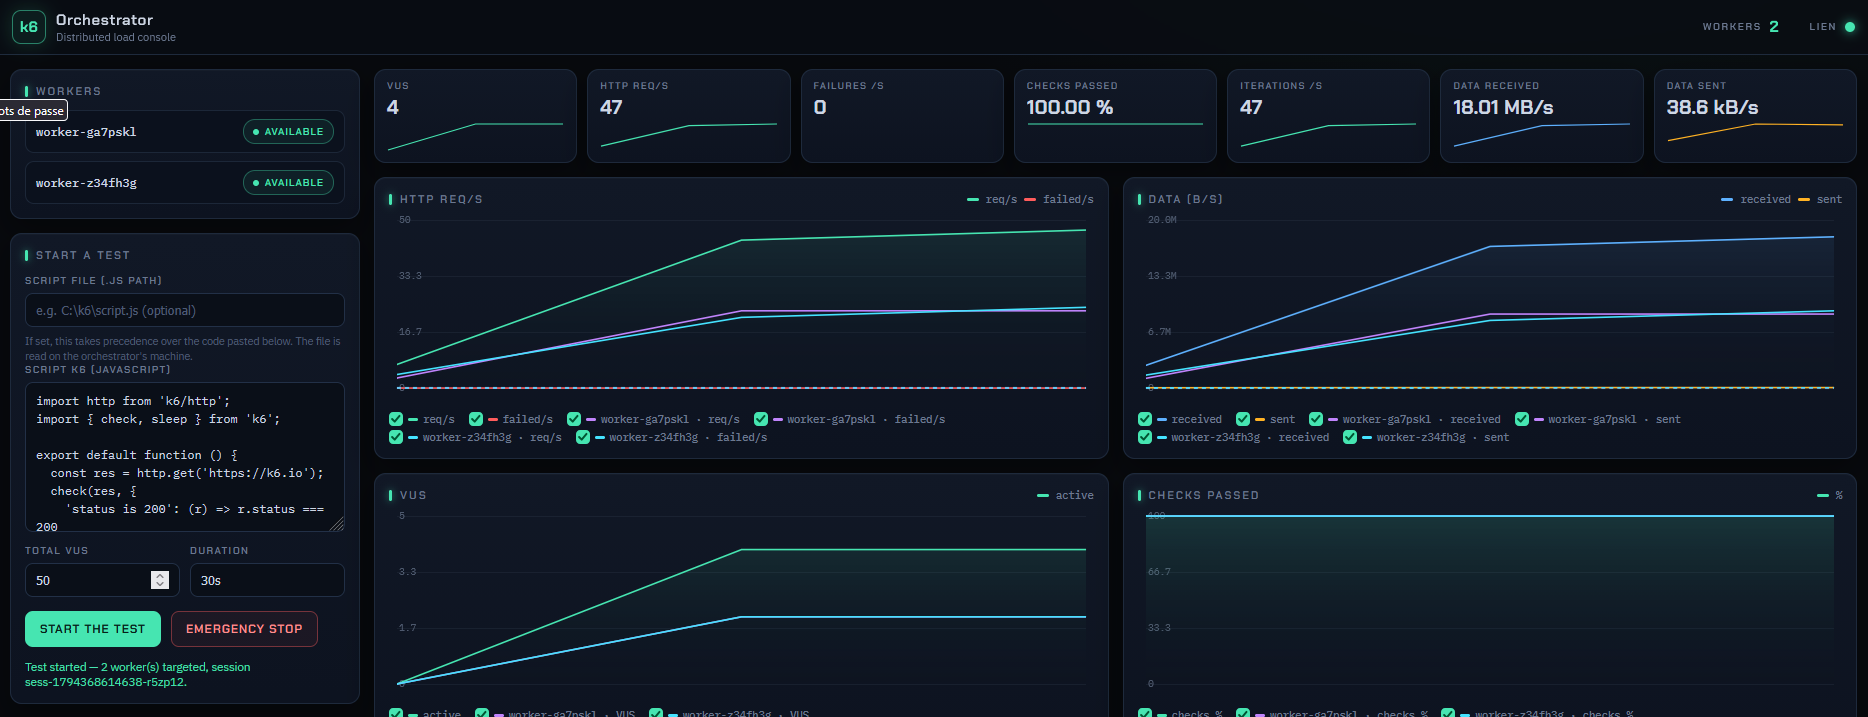
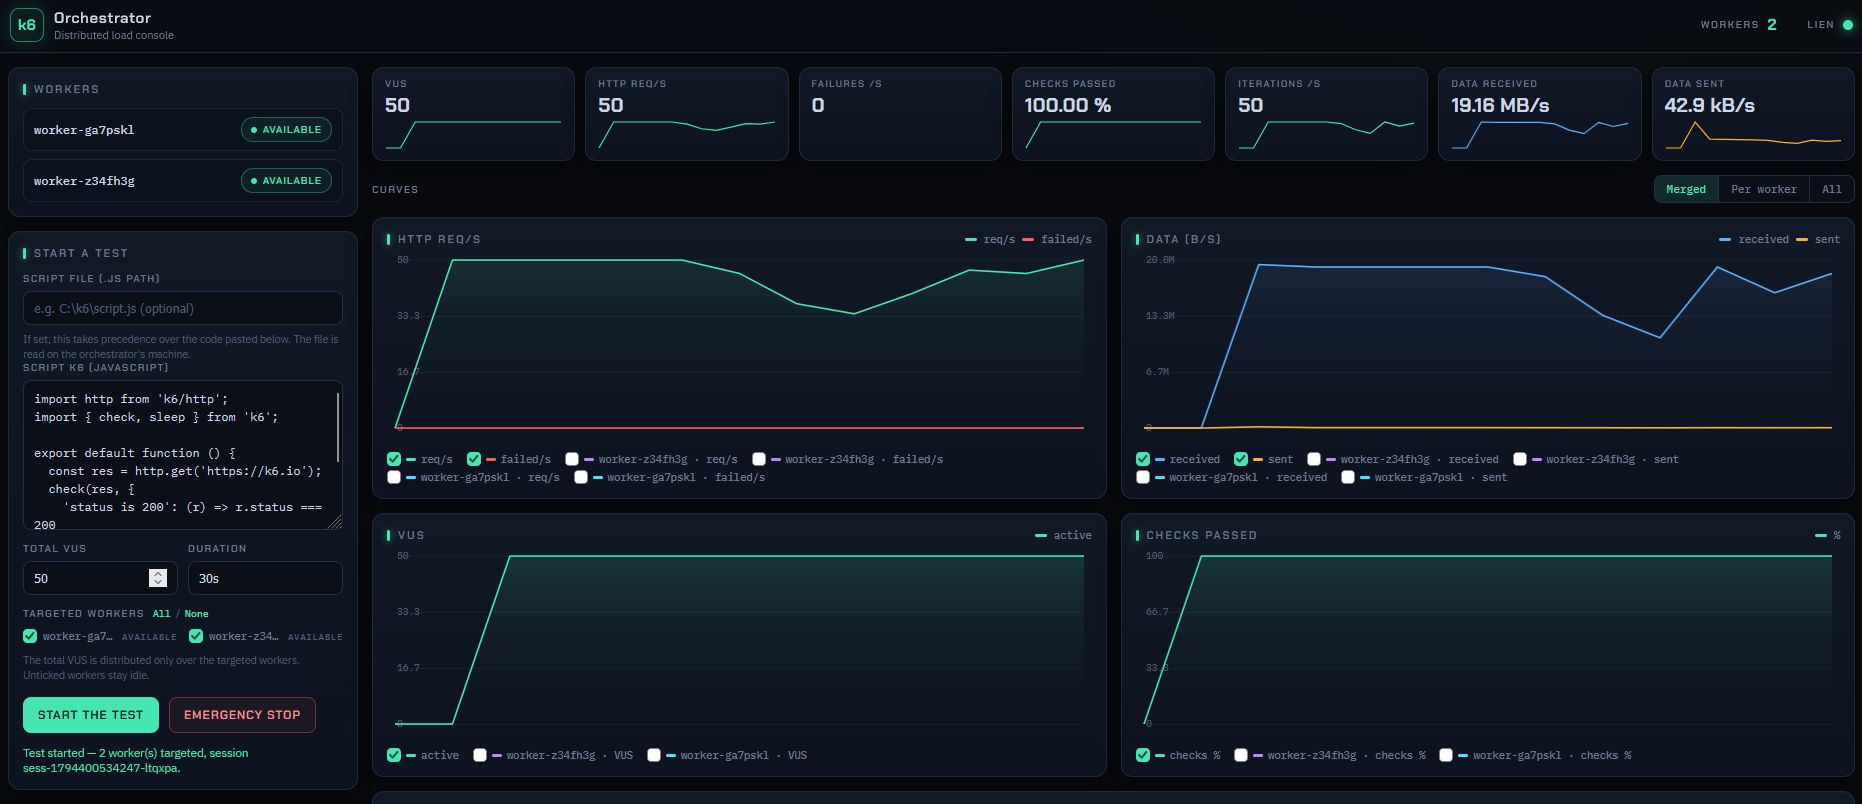
bug chart + filtering / worker

diff --git a/web/hooks/useDashboard.js b/web/hooks/useDashboard.js
@@ -33,7 +33,8 @@ export function useDashboard() {
   const socketRef = useRef(null);
   const rowsRef = useRef([]); // snapshots (ui:metrics) of the displayed session
   const workerIdsRef = useRef([]); // workers that produced metrics (order of appearance)
-  const seriesVisibleRef = useRef(new Map()); // series id -> visible
+  const seriesVisibleRef = useRef(new Map()); // series id -> manual override (checkbox)
+  const curveModeRef = useRef('fusion'); // global "curve mode": 'fusion' | 'workers' | 'all'
   const maxSeqRef = useRef(0); // deduplication of the replay
   const workerLogsRef = useRef(new Map()); // workerId -> [ { t, type, text } ]
   const activeWorkerRef = useRef(null); // selected logs tab
@@ -61,6 +62,8 @@ export function useDashboard() {
   const [metricNames, setMetricNames] = useState([]);
   const [metricName, setMetricName] = useState('');
   const [seriesVisible, setSeriesVisible] = useState(new Map());
+  // Global "curve mode": which curves are shown by default on every chart.
+  const [curveMode, setCurveModeState] = useState('fusion');
   const [sessionSelectValue, setSessionSelectValue] = useState('');
   const [rawWorkerValue, setRawWorkerValue] = useState('');
   const [activeWorker, setActiveWorker] = useState(null);
@@ -73,6 +76,7 @@ export function useDashboard() {
   const metricNameRef = useRef('');
   useEffect(() => { metricNameRef.current = metricName; }, [metricName]);
   useEffect(() => { seriesVisibleRef.current = seriesVisible; }, [seriesVisible]);
+  useEffect(() => { curveModeRef.current = curveMode; }, [curveMode]);
 
   /* ---------- Logs helpers ---------- */
 
@@ -312,18 +316,19 @@ export function useDashboard() {
 
   const drawAll = useCallback(() => {
     const rows = rowsRef.current;
-    const visible = seriesVisibleRef.current;
+    const mode = curveModeRef.current;
+    const manual = seriesVisibleRef.current;
     const wids = workerIdsRef.current;
     const canvases = canvasRefs.current;
 
     for (const c of CHART_DEFS) {
       const el = canvases[c.key];
-      if (el) drawSeries(el, c, { rows, workerIds: wids, visible });
+      if (el) drawSeries(el, c, { rows, workerIds: wids, mode, manual });
     }
     const mel = canvases['metric'];
     if (mel) {
       if (!metricNameRef.current) prep(mel);
-      else drawSeries(mel, metricDef(metricNameRef.current), { rows, workerIds: wids, visible });
+      else drawSeries(mel, metricDef(metricNameRef.current), { rows, workerIds: wids, mode, manual });
     }
     // Is the cursor hovering a chart? We keep the marker stable during live refreshes
     if (hoverRef.current) hoverRef.current.redraw(hoverRef.current.index);
@@ -337,6 +342,23 @@ export function useDashboard() {
     }
   }, []);
 
+  /* Redraw the canvases whenever one of them changes size (session switch,
+     layout shift, window resize, DPI change): the curves are then always drawn
+     at the right size, without having to move the window by hand. */
+  useEffect(() => {
+    if (typeof ResizeObserver === 'undefined') return;
+    const ro = new ResizeObserver(() => drawAll());
+    const t = requestAnimationFrame(() => {
+      for (const el of Object.values(canvasRefs.current)) {
+        if (el) ro.observe(el);
+      }
+    });
+    return () => {
+      cancelAnimationFrame(t);
+      ro.disconnect();
+    };
+  }, [drawAll]);
+
   /* ---------- Chart hovering (value at time t) ---------- */
 
   useEffect(() => {
@@ -347,7 +369,7 @@ export function useDashboard() {
       if (!canvas) return;
       const getSeries = () => buildSeries(defFactory(), workerIdsRef.current);
       const redraw = (i) => {
-        drawSeries(canvas, defFactory(), { rows: rowsRef.current, workerIds: workerIdsRef.current, visible: seriesVisibleRef.current, hoverIndex: i });
+        drawSeries(canvas, defFactory(), { rows: rowsRef.current, workerIds: workerIdsRef.current, mode: curveModeRef.current, manual: seriesVisibleRef.current, hoverIndex: i });
       };
       canvas.addEventListener('mousemove', (e) => {
         const n = rowsRef.current.length;
@@ -359,7 +381,7 @@ export function useDashboard() {
         const r = rowsRef.current[i];
         // Value of ALL visible series at time t (merged + workers)
         const html = `<span class="tt">${timeLabel(r.t)}</span>` +
-          getSeries().filter((s) => isSeriesOn(seriesVisibleRef.current, s.id)).map((s) => `<br>${s.label} : ${s.fmt(s.get(r))}`).join('');
+          getSeries().filter((s) => isSeriesOn(curveModeRef.current, seriesVisibleRef.current, s)).map((s) => `<br>${s.label} : ${s.fmt(s.get(r))}`).join('');
         showChartTip(tipEl, e, html);
       });
       canvas.addEventListener('mouseleave', () => {
@@ -478,6 +500,13 @@ export function useDashboard() {
     // Series / metric
     workerIds,
     seriesVisible,
+    curveMode,
+    setCurveMode: (mode) => {
+      // A preset: it clears the manual per-series overrides (checkboxes)
+      seriesVisibleRef.current = new Map();
+      setSeriesVisible(new Map());
+      setCurveModeState(mode);
+    },
     setSeriesOn: (id, on) => {
       const m = new Map(seriesVisibleRef.current);
       m.set(id, on);

diff --git a/web/components/ChartsGrid.jsx b/web/components/ChartsGrid.jsx
@@ -3,6 +3,7 @@ import { CHART_DEFS, buildSeries, isSeriesOn } from '../lib/charts';
 /*
  * The 4 main charts (HTTP req/s, Data, VUS, Checks).
  * Each panel: canvas + checkboxes (merged + one curve per worker).
+ * The global "curve mode" (merged / per worker / all) applies to every chart.
  * The drawing itself is triggered by the page (dash.drawAll).
  */
 
@@ -13,14 +14,41 @@ const PANEL_TITLES = {
   checks: { title: 'Checks passed', legend: <><i className="sw sw-accent" />%</> }
 };
 
-function SeriesToggles({ def, workerIds, seriesVisible, onToggle }) {
+// Global curve presets: which curves are shown by default on every chart.
+const MODES = [
+  { id: 'fusion', label: 'Merged' },
+  { id: 'workers', label: 'Per worker' },
+  { id: 'all', label: 'All' }
+];
+
+function CurveModeBar({ curveMode, onModeChange }) {
+  return (
+    <div className="charts-toolbar">
+      <span className="charts-toolbar-label">Curves</span>
+      <div className="mode-seg" role="group" aria-label="Curve visibility">
+        {MODES.map((m) => (
+          <button
+            key={m.id}
+            type="button"
+            className={'mode-btn' + (curveMode === m.id ? ' on' : '')}
+            onClick={() => onModeChange(m.id)}
+          >
+            {m.label}
+          </button>
+        ))}
+      </div>
+    </div>
+  );
+}
+
+function SeriesToggles({ def, workerIds, curveMode, seriesVisible, onToggle }) {
   return (
     <div className="series-toggle" aria-label="Visible series">
       {buildSeries(def, workerIds).map((s) => (
         <label className="sr" key={s.id}>
           <input
             type="checkbox"
-            checked={isSeriesOn(seriesVisible, s.id)}
+            checked={isSeriesOn(curveMode, seriesVisible, s)}
             onChange={(e) => onToggle(s.id, e.target.checked)}
           />
           <i className="sw2" style={{ background: s.color }} />
@@ -31,22 +59,25 @@ function SeriesToggles({ def, workerIds, seriesVisible, onToggle }) {
   );
 }
 
-export default function ChartsGrid({ workerIds, seriesVisible, onToggle, canvasRefs }) {
+export default function ChartsGrid({ workerIds, seriesVisible, onToggle, curveMode, onModeChange, canvasRefs }) {
   return (
-    <div className="charts-grid">
-      {CHART_DEFS.map((c) => {
-        const head = PANEL_TITLES[c.key];
-        return (
-          <div className="panel chart-panel reveal" key={c.key}>
-            <div className="chart-head">
-              <h2 className="panel-title inline">{head.title}</h2>
-              <span className="legend">{head.legend}</span>
+    <>
+      <CurveModeBar curveMode={curveMode} onModeChange={onModeChange} />
+      <div className="charts-grid">
+        {CHART_DEFS.map((c) => {
+          const head = PANEL_TITLES[c.key];
+          return (
+            <div className="panel chart-panel reveal" key={c.key}>
+              <div className="chart-head">
+                <h2 className="panel-title inline">{head.title}</h2>
+                <span className="legend">{head.legend}</span>
+              </div>
+              <canvas ref={(el) => { canvasRefs.current[c.key] = el; }} />
+              <SeriesToggles def={c} workerIds={workerIds} curveMode={curveMode} seriesVisible={seriesVisible} onToggle={onToggle} />
             </div>
-            <canvas ref={(el) => { canvasRefs.current[c.key] = el; }} />
-            <SeriesToggles def={c} workerIds={workerIds} seriesVisible={seriesVisible} onToggle={onToggle} />
-          </div>
-        );
-      })}
-    </div>
+          );
+        })}
+      </div>
+    </>
   );
 }

diff --git a/web/lib/charts.js b/web/lib/charts.js
@@ -166,7 +166,8 @@ export function buildSeries(c, workerIds) {
   const out = [];
   c.fusion.forEach((f, i) => {
     out.push({
-      id: `f-${i}`,
+      id: `${c.key}/f-${i}`,
+      kind: 'fusion',
       label: f.label,
       color: c.colors[i],
       dash: null,
@@ -179,7 +180,8 @@ export function buildSeries(c, workerIds) {
     const col = workerColor(wi);
     c.workerRoles.forEach((role, ri) => {
       out.push({
-        id: `w-${wi}-${ri}`,
+        id: `${c.key}/w-${wi}-${ri}`,
+        kind: 'worker',
         label: `${wid} · ${role.label}`,
         color: col,
         dash: ri > 0 ? '4 4' : null,
@@ -192,12 +194,21 @@ export function buildSeries(c, workerIds) {
   return out;
 }
 
-// Visibility of a series (default: shown).
-export const isSeriesOn = (visible, id) => visible.get(id) !== false;
+// Visibility of a series: an explicit per-series override (checkbox) wins,
+// otherwise the global "curve mode" decides —
+//   fusion  : merged curves only
+//   workers : per-worker curves only
+//   all     : merged + per-worker curves
+export const isSeriesOn = (mode, manual, s) => {
+  if (manual.has(s.id)) return manual.get(s.id);
+  return s.kind === 'fusion'
+    ? (mode === 'fusion' || mode === 'all')
+    : (mode === 'workers' || mode === 'all');
+};
 
 // Drawing of a chart: visible series + values over the `rows`.
-export function drawSeries(canvas, c, { rows, workerIds, visible, hoverIndex = -1 }) {
-  const series = buildSeries(c, workerIds).filter((s) => isSeriesOn(visible, s.id));
+export function drawSeries(canvas, c, { rows, workerIds, mode, manual, hoverIndex = -1 }) {
+  const series = buildSeries(c, workerIds).filter((s) => isSeriesOn(mode, manual, s));
   const vals = series.map((s) => rows.map((r) => s.get(r)));
   drawLines(canvas, rows, series, vals, hoverIndex);
 }

diff --git a/web/app/globals.css b/web/app/globals.css
@@ -505,6 +505,49 @@ input::placeholder { color: var(--text-faint); }
   display: block;
 }
 
+/* Charts toolbar: global curve-mode preset (merged / per worker / all) */
+.charts-toolbar {
+  display: flex;
+  align-items: center;
+  justify-content: space-between;
+  gap: 10px;
+}
+
+.charts-toolbar-label {
+  font: 600 10px 'Chakra Petch', sans-serif;
+  letter-spacing: 0.14em;
+  text-transform: uppercase;
+  color: var(--text-dim);
+}
+
+.mode-seg {
+  display: inline-flex;
+  border: 1px solid #223047;
+  border-radius: 8px;
+  overflow: hidden;
+  background: #0a0f18;
+}
+
+.mode-btn {
+  background: none;
+  border: none;
+  border-right: 1px solid #223047;
+  color: var(--text-dim);
+  font: 500 11px 'IBM Plex Mono', monospace;
+  padding: 6px 12px;
+  cursor: pointer;
+  transition: color 0.15s, background 0.15s;
+}
+
+.mode-btn:last-child { border-right: none; }
+
+.mode-btn:hover { color: var(--text); }
+
+.mode-btn.on {
+  color: var(--accent);
+  background: rgba(70, 229, 177, 0.12);
+}
+
 .legend {
   display: inline-flex;
   align-items: center;

diff --git a/web/app/page.jsx b/web/app/page.jsx
@@ -19,7 +19,7 @@ export default function Page() {
   useEffect(() => {
     dash.drawAll();
     // eslint-disable-next-line react-hooks/exhaustive-deps
-  }, [dash.rowsRev, dash.workerIds, dash.seriesVisible, dash.metricName, dash.drawAll]);
+  }, [dash.rowsRev, dash.workerIds, dash.seriesVisible, dash.curveMode, dash.metricName, dash.drawAll]);
 
   // Redraw on window resize (same as the legacy console)
   useEffect(() => {
@@ -50,12 +50,15 @@ export default function Page() {
             workerIds={dash.workerIds}
             seriesVisible={dash.seriesVisible}
             onToggle={dash.setSeriesOn}
+            curveMode={dash.curveMode}
+            onModeChange={dash.setCurveMode}
             canvasRefs={dash.canvasRefs}
           />
           <MetricExplorer
             rows={rows}
             workerIds={dash.workerIds}
             seriesVisible={dash.seriesVisible}
+            curveMode={dash.curveMode}
             metricName={dash.metricName}
             metricNames={dash.metricNames}
             onMetricChange={dash.setMetricName}

diff --git a/web/components/MetricExplorer.jsx b/web/components/MetricExplorer.jsx
@@ -57,7 +57,7 @@ function MetricTable({ rows, workerIds, metricName }) {
   );
 }
 
-export default function MetricExplorer({ rows, workerIds, seriesVisible, metricName, metricNames, onMetricChange, canvasRefs, onToggle }) {
+export default function MetricExplorer({ rows, workerIds, seriesVisible, curveMode, metricName, metricNames, onMetricChange, canvasRefs, onToggle }) {
   const def = metricName ? metricDef(metricName) : null;
 
   return (
@@ -84,7 +84,7 @@ export default function MetricExplorer({ rows, workerIds, seriesVisible, metricN
                 <label className="sr" key={s.id}>
                   <input
                     type="checkbox"
-                    checked={isSeriesOn(seriesVisible, s.id)}
+                    checked={isSeriesOn(curveMode, seriesVisible, s)}
                     onChange={(e) => onToggle(s.id, e.target.checked)}
                   />
                   <i className="sw2" style={{ background: s.color }} />
